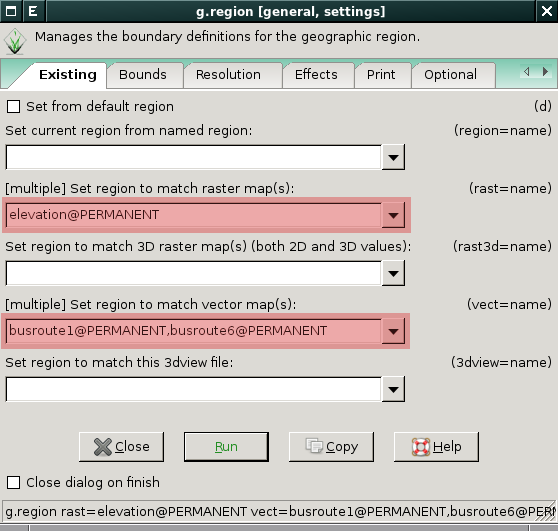
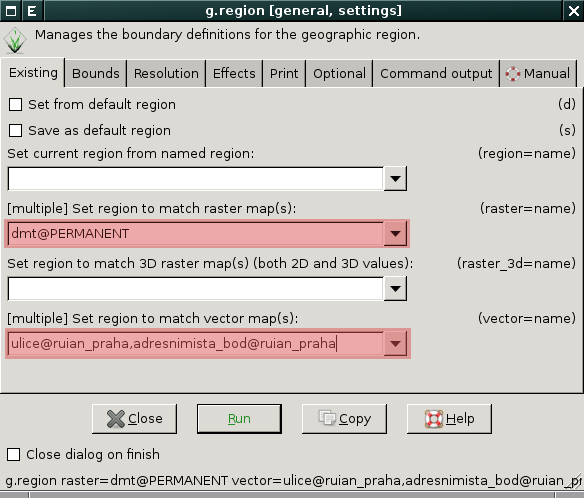
fix g.region examples to use gismentors location

diff --git a/intro/region.rst b/intro/region.rst
@@ -60,7 +60,7 @@ správce vrstev.
 
    .. code-block:: bash
 
-      g.region raster=elevation
+      g.region raster=dmt
 
 Zároveň je možné vybrat pro nastavení výpočetního regionu i více
 rastrových či vektorových map najednou.
@@ -73,7 +73,7 @@ rastrových či vektorových map najednou.
 
    .. code-block:: bash
                 
-      g.region vector=busroute1,busroute6
+      g.region vector=ulice,adresnimista_bod
 
 .. tip:: Prostorové rozlišení může být nastaveno pomocí modulu
    :grasscmd:`g.region` explicitně (volba :option:`res`) nebo na
@@ -107,9 +107,9 @@ Pro manipulaci s výpočetním regionem je určen modul :grassCmd:`g.region`.
 Modul :grassCmd:`g.region` umožňuje nastavit region na základě
 existujících rastrových, vektorových map či již dříve uloženého
 nastavení (parametr :option:`save`). V níže uvedeném případě nastavíme
-výpočetní region tak, aby pokrýval rastrovou mapu :map:`elevation` a
-vektorové mapy :map:`busroute1` a :map:`busroute6`. Prostorové
-rozlišení je určeno z rastrové mapy :map:`elevation`.
+výpočetní region tak, aby pokrýval rastrovou mapu :map:`dmt` a
+vektorové mapy :map:`ulice` a :map:`adresnimista_bod`. Prostorové
+rozlišení je určeno z rastrové mapy :map:`dmt`.
 
 .. figure:: images/wxgui-g-region-existing.png
 
